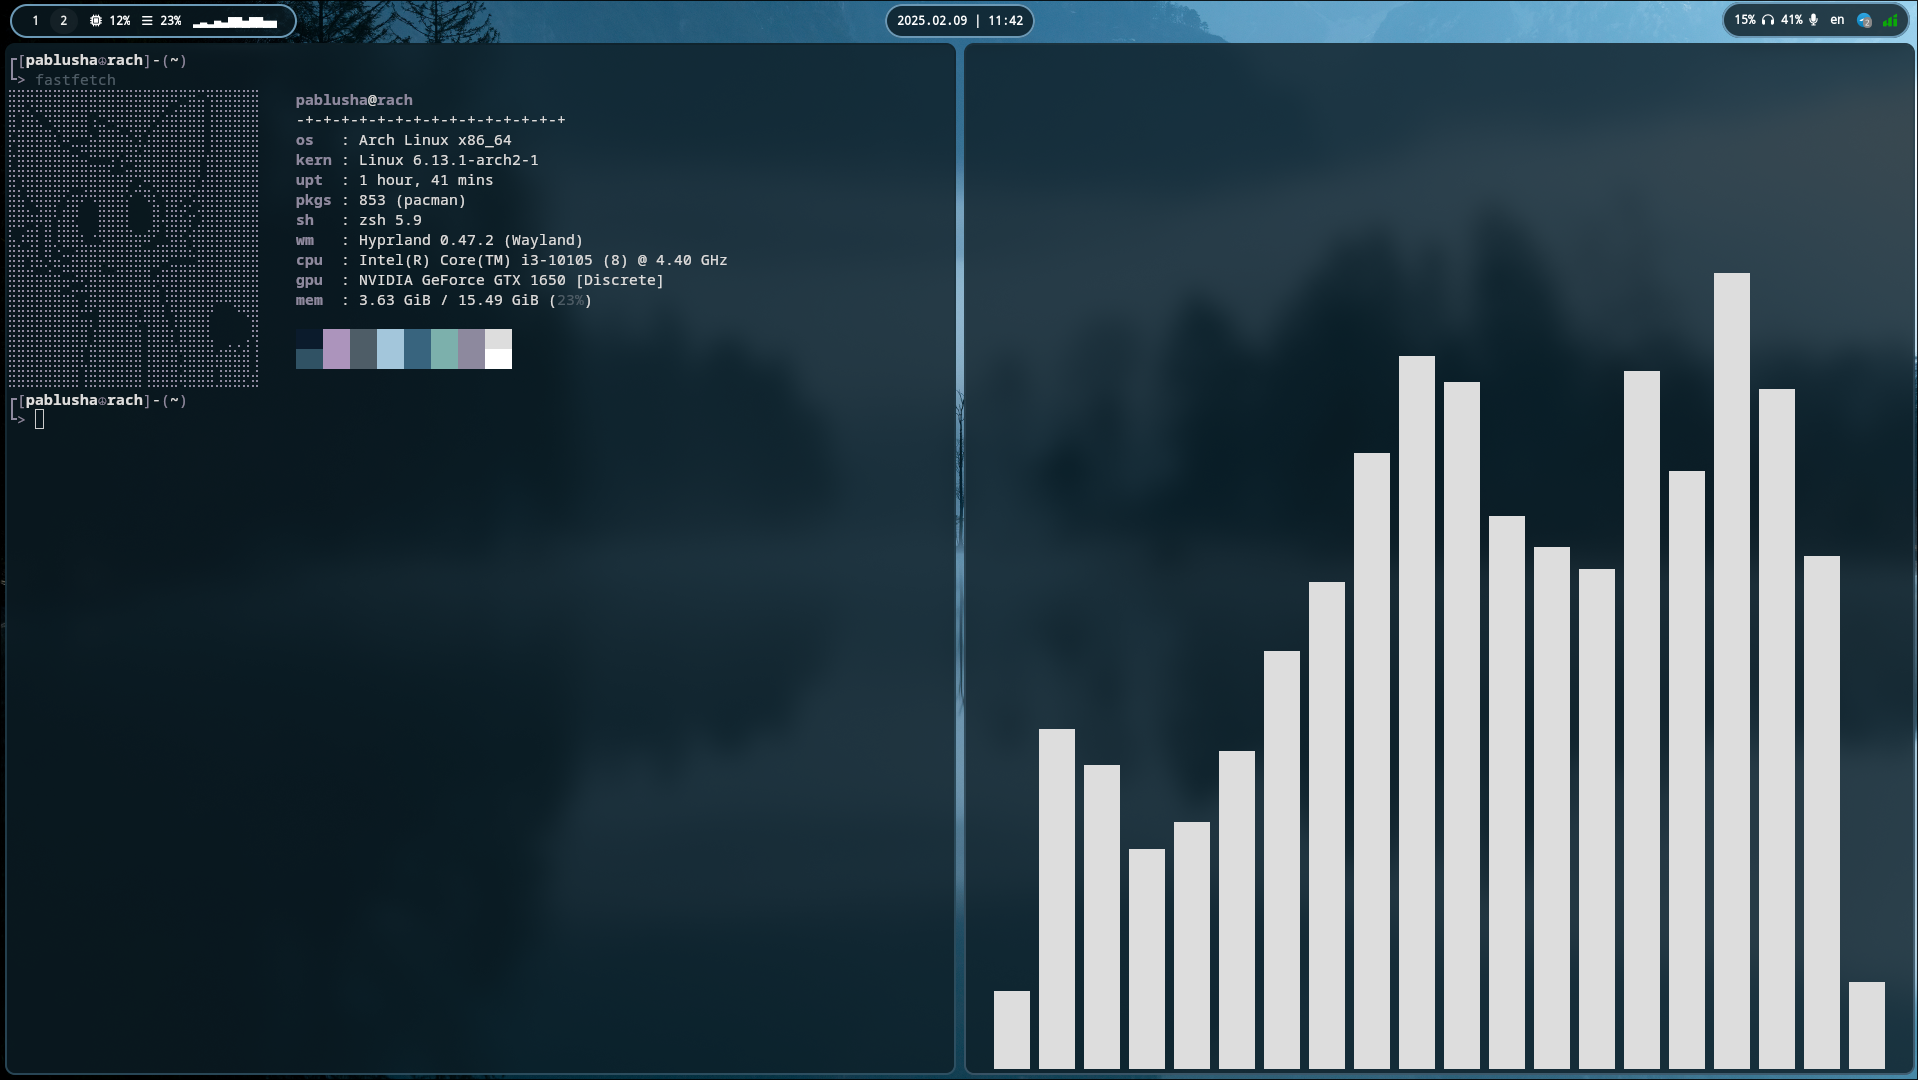
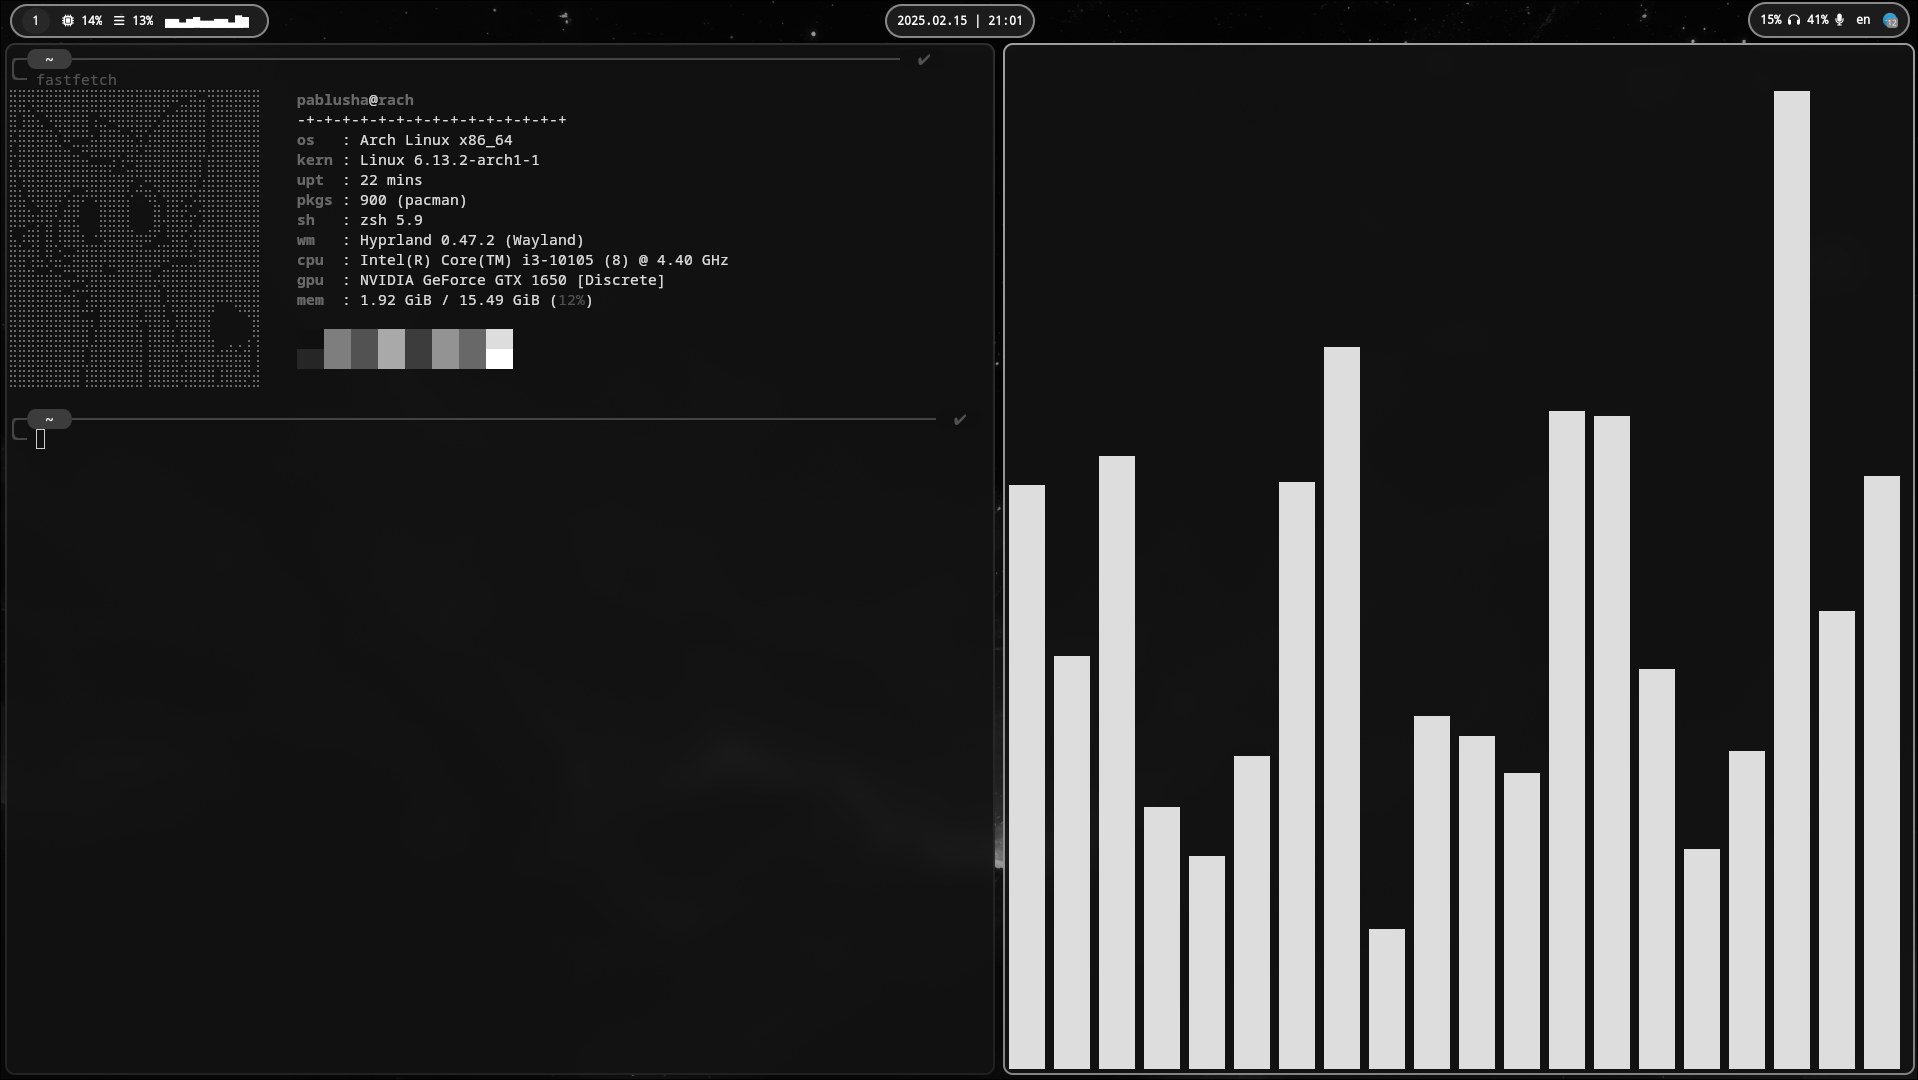
вернулся к старой доброй монохромной палитре

diff --git a/config/waybar/style.css b/config/waybar/style.css
@@ -10,31 +10,31 @@ window#waybar {
 
 .modules-center {
     border-radius: 30px;
-    background: rgba(11, 27, 34, 0.8);
+    background: rgba(34, 34, 34, 0.8);
     padding: 2px 10px 2px 10px;
     margin: 4px;
     margin-bottom: 0px;
-    border: 2px solid #6b99b6;
+    border: 2px solid #888;
 }
 
 .modules-right {
     border-radius: 30px;
-    background: rgba(11, 27, 34, 0.8);
+    background: rgba(34, 34, 34, 0.8);
     padding: 2px 10px 2px 10px;
     margin: 2px;
     margin-bottom: 0px;
     margin-right: 10px;
-    border: 2px solid #6b99b6;
+    border: 2px solid #888;
 }
 
 .modules-left {
     border-radius: 30px;
-    background: rgba(11, 27, 34, 0.8);
+    background: rgba(34, 34, 34, 0.8);
     padding: 2px 18px 2px 10px;
     margin: 4px;
     margin-bottom: 0px;
     margin-left: 10px;
-    border: 2px solid #6b99b6;
+    border: 2px solid #888;
 }
 
 #workspaces button {

diff --git a/config/wofi/style.css b/config/wofi/style.css
@@ -2,13 +2,13 @@ window {
     font-size: 18px;
     font-family: FontAwesome, "Droid Sans Mono", monospace;
     font-weight: 700;
-    background-color: rgba(11, 27, 34, 0.8);
-    border: 2px solid #8888AA;
+    background-color: rgba(37, 37, 37, 0.8);
+    border: 2px solid #888888;
     border-radius: 8px;
 }
 
 #entry:selected {
-    background: linear-gradient(45deg, #8888AA, #CCCCEE);
+    background: linear-gradient(45deg, #888888, #AAAAAA);
 }
 
 #entry {

diff --git a/README.MD b/README.MD
@@ -9,4 +9,5 @@ $ yay -S cava
 ```
 - **Download and unzip** archive to your ```home``` directory
 - **Import** vscode.code-profile to your VS Code
+- **Install** [this zsh theme](https://github.com/romkatv/powerlevel10k)
 - ✅ **Perfect**
